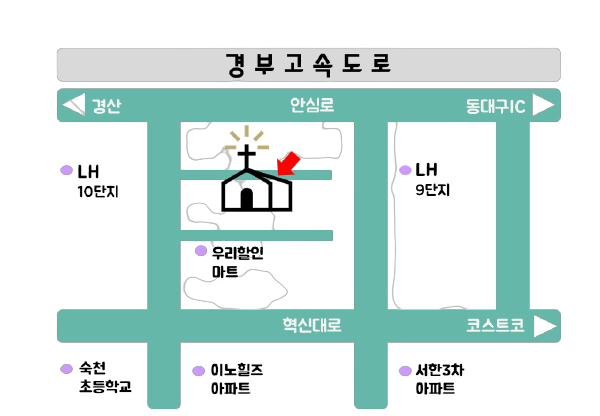
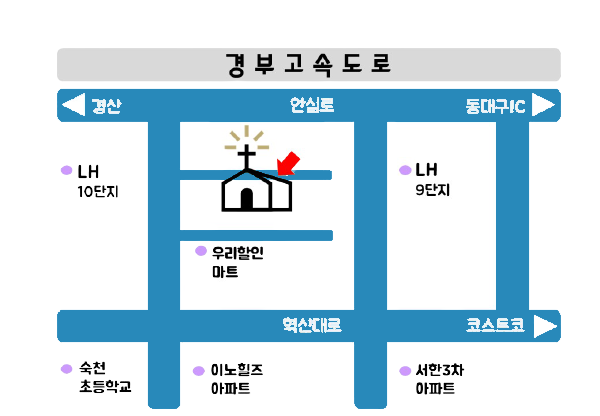
주보: 합신·교회 로고 원래 배치, 약도를 주보 색으로 자동 칠하기, 유튜브 로고, 머리·꼬리 다듬기
Claude-Session: https://claude.ai/code/session_015gonp8qX7yQsquEVhVLYPY

diff --git a/bulletin.html b/bulletin.html
@@ -50,12 +50,12 @@ b, strong, .b { font-weight: 700; }
 
 /* 오른쪽: 머리 */
 .head { display: grid; grid-template-columns: auto 1fr auto; align-items: center; gap: 4mm; border-top: 1.2mm solid var(--c); padding-top: 1.5mm; }
-.head .logos { display: grid; justify-items: center; gap: .4mm; }
-.head .logos .hs { height: 4.2mm; }
-.head .logos .lg { height: 9.5mm; }
+.head .logos { position: relative; padding-top: 5mm; padding-left: 0; }
+.head .logos .hs { position: absolute; left: 4.6mm; top: 0; height: 7mm; }
+.head .logos .lg { height: 12.5mm; display: block; }
 .head .no { font-size: 14pt; color: var(--c); font-weight: 700; white-space: nowrap; }
 .head .no span { font-weight: 300; }
-.head .motto { color: var(--c); font-size: 9.5pt; line-height: 1.35; text-align: right; font-weight: 700; }
+.head .motto { color: var(--c); font-size: 10pt; line-height: 1.35; text-align: right; font-weight: 300; }
 
 .mid { display: grid; grid-template-columns: 1.45fr 1fr; gap: 3mm; min-height: 0; }
 .order-wrap, .side { display: grid; gap: 2.2mm; min-height: 0; }
@@ -79,8 +79,10 @@ b, strong, .b { font-weight: 700; }
 .center { text-align: center; }
 .workers b { font-weight: 700; }
 .side .tab { font-size: 10pt; padding: 1.1mm 4mm 1mm 3mm; min-width: 70%; }
+.mid .order-wrap > .box > .tab, .mid .side > .box:first-child > .tab { justify-self: stretch; border-radius: 2.5mm 2.5mm 0 0; }
 
-.foot { display: grid; grid-template-columns: 1fr auto; gap: 3mm; align-items: end; border-top: .3mm solid var(--c-soft); padding-top: 1.5mm; }
+.foot { display: grid; grid-template-columns: 1fr auto; gap: 3mm; align-items: center; border-top: 1.2mm solid var(--c); padding-top: 1.8mm; }
+.foot .yt { height: 1em; vertical-align: -0.15em; margin-right: 1mm; }
 .foot .t { font-size: 8.8pt; line-height: 1.55; color: var(--c); }
 .foot .t b { color: var(--c); }
 .foot .t .k { color: var(--ink); }
@@ -139,8 +141,9 @@ b, strong, .b { font-weight: 700; }
   const kv = (l) => { const k = l.split(/\s*\|\s*/); return k.length > 1 ? k : [l, ""]; };
   const boldLabel = (l) => { const i = l.indexOf(":"); return i > 0 ? `<b>${esc(l.slice(0, i + 1))}</b>${esc(l.slice(i + 1))}` : esc(l); };
 
-  function render(d) {
+  async function render(d) {
     applyTheme(d.theme);
+    const mapSrc = await tintMap(getComputedStyle(document.documentElement).getPropertyValue("--c").trim());
     const f = d.fixed || {};
     const rows = (d.order || []).map((r) => `<div class="row"><span class="st">${r.star ? "*" : ""}</span>
       <span class="lb ${r.label.length > 4 ? "long" : ""}">${r.label.length <= 4 ? [...r.label].map((c) => `<i>${esc(c)}</i>`).join("") : esc(r.label)}</span><span class="vl fit1">${esc(r.value)}${r.note ? ` <small>(${esc(r.note)})</small>` : ""}</span></div>`).join("");
@@ -151,7 +154,7 @@ b, strong, .b { font-weight: 700; }
     <div class="card round notices fit" data-max="12" data-min="8">${noticesHtml(d.notices)}</div>
     <div class="bottom2">
       <div class="box"><div class="tab">우리의 모임 안내</div><div class="card meet"><table>${lines(f.meetings).map((l) => { const [a, b] = kv(l); return `<tr><td>${esc(a)}</td><td>${esc(b)}</td></tr>`; }).join("")}</table></div></div>
-      <div class="box"><div class="tab">우리에게 오시는 길</div><div class="card map"><img src="assets/bulletin/map.png" alt="약도"></div></div>
+      <div class="box"><div class="tab">우리에게 오시는 길</div><div class="card map"><img id="map-img" alt="약도"></div></div>
     </div>
   </div>
   <div class="col right">
@@ -175,7 +178,10 @@ b, strong, .b { font-weight: 700; }
       </div>
     </div>
     <div class="foot">
-      <div class="t">${lines(f.footer).map((l) => { const i = l.indexOf(":"); return i > 0 ? `<b>${esc(l.slice(0, i + 1))}</b> <span class="k">${esc(l.slice(i + 1).trim())}</span>` : esc(l); }).join("<br>")}</div>
+      <div class="t">${lines(f.footer).map((l) => {
+        const yt = /^유튜브/.test(l) ? `<img class="yt" src="assets/bulletin/youtube.png" alt="YouTube">` : "";
+        const i = l.indexOf(":");
+        return yt + (i > 0 ? `<b>${esc(l.slice(0, i + 1))}</b> <span class="k">${esc(l.slice(i + 1).trim())}</span>` : esc(l)); }).join("<br>")}</div>
       <img src="assets/bulletin/qr.png" alt="QR">
     </div>
   </div>
@@ -187,6 +193,7 @@ b, strong, .b { font-weight: 700; }
     ${memoHtml(d.summary)}
   </div>
 </section>`;
+    document.getElementById("map-img").src = mapSrc;
     return fitAll();
   }
 
@@ -214,6 +221,37 @@ b, strong, .b { font-weight: 700; }
     window.__bulletinWarnings = warns;
     window.__bulletinReady = true;
     return warns;
+  }
+
+  // 약도: 파란 길·글자를 주보 색으로 바꿔 칠함 (빨간 화살표·검은 교회·보라 점은 그대로)
+  function hexRgb(h) { const n = parseInt(h.replace("#", ""), 16); return [n >> 16 & 255, n >> 8 & 255, n & 255]; }
+  function tintMap(color) {
+    return new Promise((resolve) => {
+      const im = new Image();
+      im.onload = () => {
+        const c = document.createElement("canvas"); c.width = im.naturalWidth; c.height = im.naturalHeight;
+        const g = c.getContext("2d"); g.drawImage(im, 0, 0);
+        const d = g.getImageData(0, 0, c.width, c.height), a = d.data;
+        const [tr, tg, tb] = hexRgb(color);
+        const BASE = 0.443;  // 원래 약도의 진한 파랑(#2889ba) 밝기 (0~1)
+        for (let i = 0; i < a.length; i += 4) {
+          const r = a[i], gg = a[i + 1], b = a[i + 2];
+          const mx = Math.max(r, gg, b), mn = Math.min(r, gg, b);
+          if (mx - mn < 40) continue;                        // 회색·흰색·검정은 그대로
+          let h = 0; const dd = mx - mn;
+          if (mx === r) h = ((gg - b) / dd) % 6; else if (mx === gg) h = (b - r) / dd + 2; else h = (r - gg) / dd + 4;
+          h = (h * 60 + 360) % 360;
+          if (h < 170 || h > 235) continue;                   // 파랑 계열만
+          const L = (mx + mn) / 510;
+          const w = Math.max(0, Math.min(1, (L - BASE) / (1 - BASE)));  // 원래보다 밝은 만큼 흰색 섞기
+          a[i] = tr + (255 - tr) * w; a[i + 1] = tg + (255 - tg) * w; a[i + 2] = tb + (255 - tb) * w;
+        }
+        g.putImageData(d, 0, 0);
+        resolve(c.toDataURL("image/png"));
+      };
+      im.onerror = () => resolve("assets/bulletin/map.png");
+      im.src = "assets/bulletin/map.png";
+    });
   }
 
   window.renderBulletin = render;
